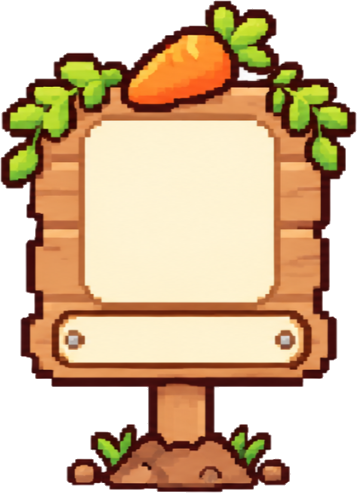
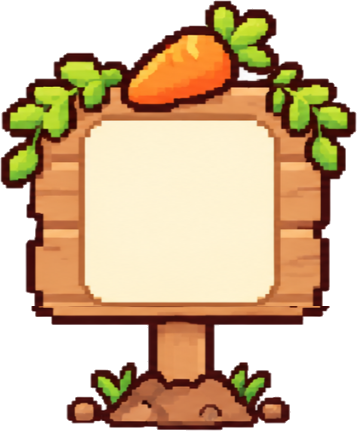
텃밭 칸: 당근·잡초 크게 가운데, 팻말 작게·이름 띠 없앰

diff --git a/android/app/src/main/java/com/oddfactory/carrot/GardenActivity.java b/android/app/src/main/java/com/oddfactory/carrot/GardenActivity.java
@@ -434,7 +434,7 @@ public final class GardenActivity extends Activity {
         float[] rootOnScreen(int i) {
             getLocationOnScreen(loc);
             RectF r = cells.get(i);
-            return new float[]{loc[0] + r.left - page * getWidth() + r.width() * 0.36f, loc[1] + r.top + r.height() * 0.66f};
+            return new float[]{loc[0] + r.left - page * getWidth() + r.width() * 0.5f, loc[1] + r.top + r.height() * 0.76f};
         }
 
         @Override public boolean onTouchEvent(MotionEvent e) {
@@ -556,16 +556,16 @@ public final class GardenActivity extends Activity {
         void drawCell(Canvas c, RectF r, App a) {
             Long ys = yanking.get(a);
             long yt = ys == null ? -1 : SystemClock.uptimeMillis() - ys;
-            float base = r.top + r.height() * 0.66f, pcx = r.left + r.width() * 0.36f;
+            float base = r.top + r.height() * 0.76f, pcx = r.centerX(); // 식물은 칸 가운데, 크게
             int alpha = 255;
             if (ys != null && yt > hatnimTotal()) alpha = (int) Math.max(0, 255 * (1 - (yt - hatnimTotal()) / 350f)); // 끝나면 칸이 흐려지며 사라짐
             Paint ap = new Paint(px); ap.setAlpha(alpha);
             // 식물: 뽑히는 중이면 햇님이가 튀어나오는 프레임
             Bitmap plant = a.weed ? weedBmp : carrot;
-            float ph = r.height() * (a.weed ? 0.42f : 0.52f);
+            float ph = r.height() * (a.weed ? 0.58f : 0.7f);
             if (ys != null && hatnim[0] != null) {
                 Bitmap hb = hatnim[hatnimFrame(yt)];
-                float hh = r.height() * 0.78f, hw = hh * hb.getWidth() / hb.getHeight();
+                float hh = r.height() * 0.92f, hw = hh * hb.getWidth() / hb.getHeight();
                 c.drawBitmap(hb, null, new RectF(pcx - hw / 2, base - hh, pcx + hw / 2, base), ap);
             } else if (plant != null) {
                 float pw = ph * plant.getWidth() / plant.getHeight();
@@ -574,9 +574,9 @@ public final class GardenActivity extends Activity {
                 c.drawBitmap(plant, null, new RectF(pcx - pw / 2, base - ph, pcx + pw / 2, base), ap);
                 c.restore();
             }
-            // 팻말: 뽑히면 옆으로 쓰러지며 흐려짐
-            float sh = r.height() * 0.44f, sw = sign != null ? sh * sign.getWidth() / sign.getHeight() : sh * 0.7f;
-            float sx = r.right - sw - r.width() * 0.02f, sy = r.top + r.height() * 0.80f - sh;
+            // 팻말: 작게, 식물 오른쪽 앞에 꽂힘(뽑히면 옆으로 쓰러지며 흐려짐)
+            float sh = r.height() * 0.34f, sw = sign != null ? sh * sign.getWidth() / sign.getHeight() : sh * 0.8f;
+            float sx = r.right - sw - r.width() * 0.01f, sy = base + r.height() * 0.06f - sh;
             c.save();
             if (ys != null) { float k = Math.min(1f, yt / 500f); c.rotate(70 * k * k, sx + sw * 0.5f, sy + sh); ap.setAlpha((int) (alpha * (1 - 0.6f * k))); }
             if (sign != null) c.drawBitmap(sign, null, new RectF(sx, sy, sx + sw, sy + sh), ap);
